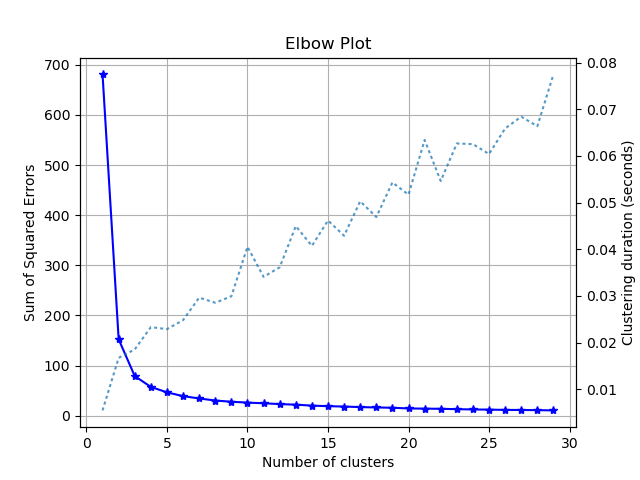
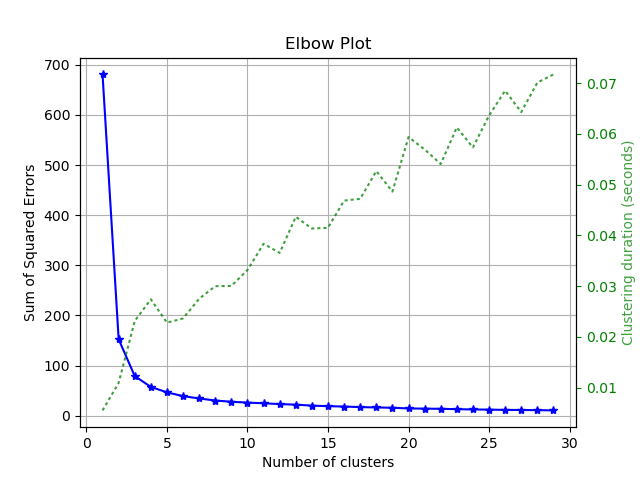
add new feature show_cluster_time to plot_elbow_curve

diff --git a/scikitplot/cluster.py b/scikitplot/cluster.py
@@ -99,10 +99,13 @@ def plot_elbow_curve(clf, X, title='Elbow Plot', cluster_ranges=None, n_jobs=1,
     ax.tick_params(labelsize=text_fontsize)
 
     if show_cluster_time:
+        ax2_color = 'green'
         ax2 = ax.twinx()
-        ax2.plot(cluster_ranges, times, ':', alpha=0.75)
-        ax2.set_ylabel('Clustering duration (seconds)', fontsize=text_fontsize)
-        ax2.tick_params(labelsize=text_fontsize)
+        ax2.plot(cluster_ranges, times, ':', alpha=0.75, color=ax2_color)
+        ax2.set_ylabel('Clustering duration (seconds)',
+                       color=ax2_color, alpha=0.75,
+                       fontsize=text_fontsize)
+        ax2.tick_params(colors=ax2_color, labelsize=text_fontsize)
 
     return ax
 

diff --git a/examples/plot_elbow_curve.py b/examples/plot_elbow_curve.py
@@ -1,4 +1,7 @@
-"""An example showing the plot_silhouette method used by a scikit-learn clusterer"""
+"""
+An example showing the plot_silhouette
+method used by a scikit-learn clusterer
+"""
 from __future__ import absolute_import
 import matplotlib.pyplot as plt
 import scikitplot as skplt
